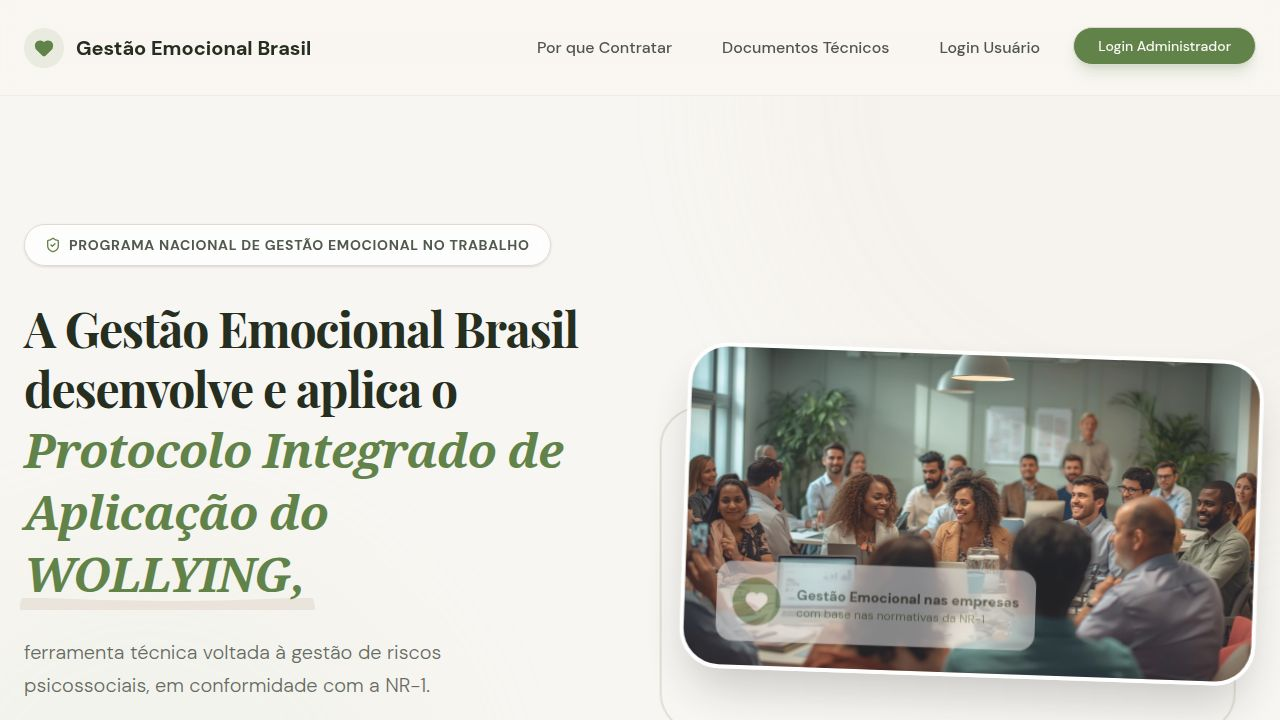
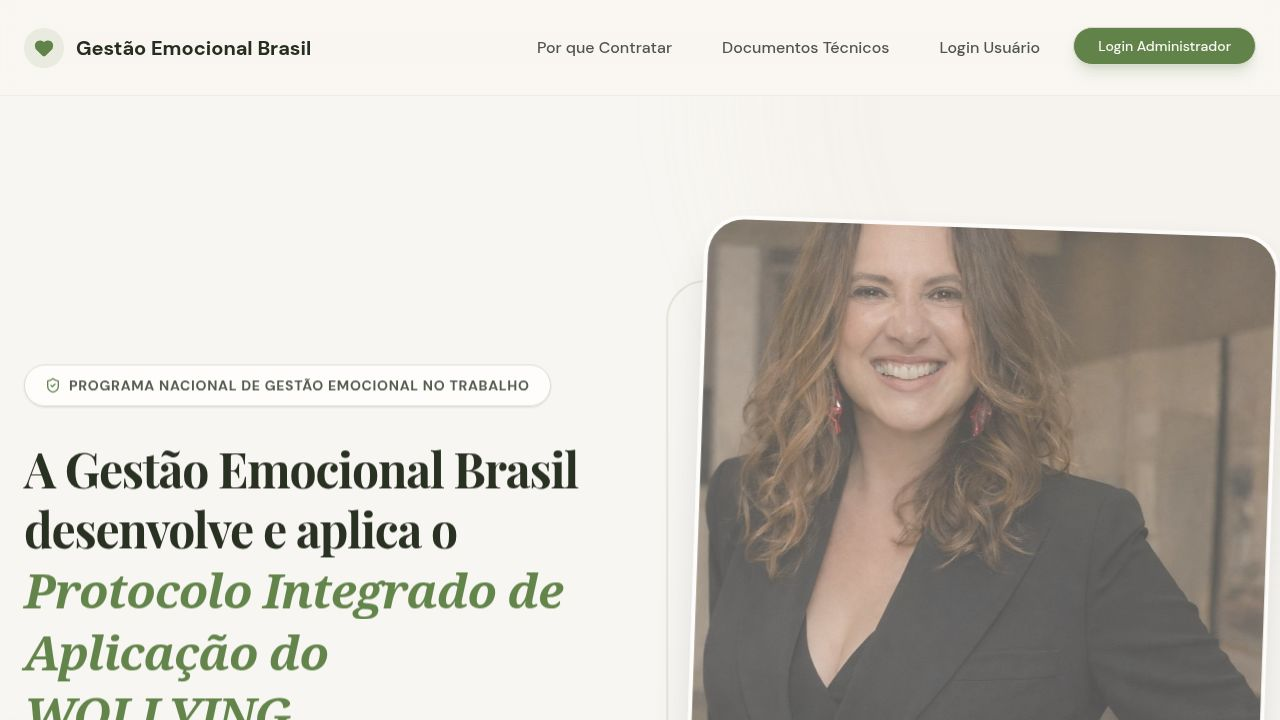
Update website to feature new image of the founder
Replace existing hero images with a new photo of the founder, Kaká Ribeiro, and update associated component paths.

Replit-Commit-Author: Agent
Replit-Commit-Session-Id: 4cc987fa-519f-4bd8-822d-c3cd19681768
Replit-Commit-Checkpoint-Type: full_checkpoint
Replit-Commit-Event-Id: 6c2dfea3-3e6e-4781-ab52-79abe8804fef
Replit-Commit-Screenshot-Url: https://storage.googleapis.com/screenshot-production-us-central1/67695f3d-8801-4f3e-8069-46e3bb012fd4/4cc987fa-519f-4bd8-822d-c3cd19681768/3KF5aQx
Replit-Helium-Checkpoint-Created: true

diff --git a/client/src/App.tsx b/client/src/App.tsx
@@ -18,7 +18,7 @@ import {
   DropdownMenuTrigger,
 } from "@/components/ui/dropdown-menu";
 import sleepImage from "@assets/stock_images/restful_sleep_peacef_5f3dd78f.jpg";
-import heroImage from "@assets/Eu_quero_uma_imagem_de_reuniao_corporativa_com_diversidade_use_1765810942165.jpg";
+import heroImage from "@/assets/images/kaka-ribeiro-new.jpg";
 import womanModuleImage from "@assets/stock_images/professional_busines_686e4a14.jpg";
 import {
   LineChart,

diff --git a/client/src/pages/why-hire.tsx b/client/src/pages/why-hire.tsx
@@ -23,7 +23,7 @@ import {
 
 import heroImage from "@assets/Eu_quero_uma_imagem_de_reuniao_corporativa_com_diversidade_use_1765810336269.jpg";
 
-import kakaRibeiroImg from "@assets/WhatsApp_Image_2025-12-17_at_11.12.45_1766578519530.jpeg";
+import kakaRibeiroImg from "@/assets/images/kaka-ribeiro-new.jpg";
 
 const WhyHire = () => {
   return (
